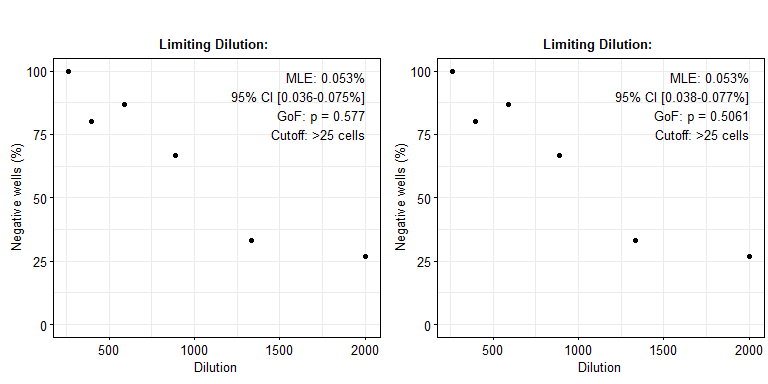
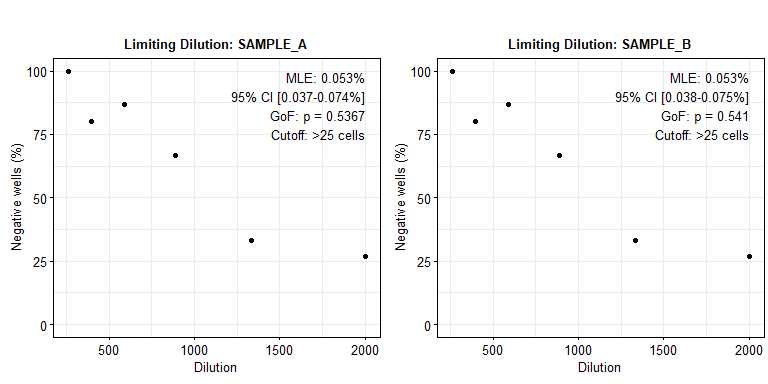
Fixed plot title bug for multiple samples; added plotMLE function

diff --git a/README.md b/README.md
@@ -107,7 +107,7 @@ plotLDA(results, dilutions = "dilution")
 
 If our data frame contains a sample or group name, we can provide the
 column name to the `groupby` argument. The name will appear in results
-and be added to the plot.
+and be added to the plot title.
 
 ``` r
 df[["sample"]] <- "SAMPLE"
@@ -162,6 +162,17 @@ plotLDA(results, dilutions = "dilution", groupby = "sample")
 ```
 
 ![](README_files/figure-gfm/unnamed-chunk-6-1.png)<!-- -->
+
+### Comparing sample MLE
+
+The MLE and confidence interval of multiple samples can be plotted
+together using `plotMLE`.
+
+``` r
+plotMLE(results, groupby = "sample")
+```
+
+![](README_files/figure-gfm/unnamed-chunk-7-1.png)<!-- -->
 
 ## License
 
